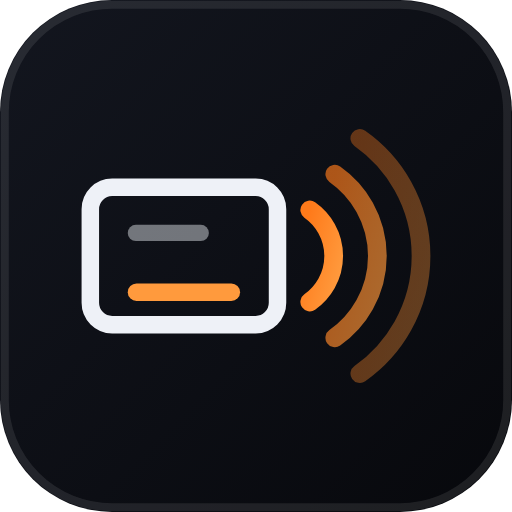
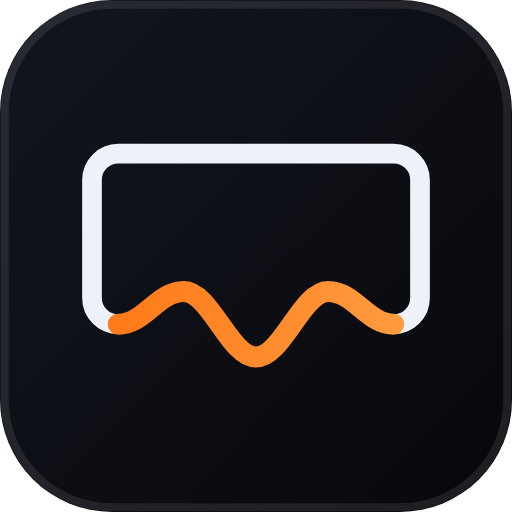
New mark: a slide that ends in a waveform
The frame stops at the bottom corners and the voice carries the edge
between them, so a single outline says both halves of the name instead of
drawing a screen and a speaker next to each other.

Replaces the mark, the tile, the lockup, the fifteen rasters and the inline
copy in the page header.

Changed region(s): [[0.1562, 0.25, 0.8438, 0.75], [0.25, 0.4375, 0.4062, 0.4688]]

diff --git a/ui.html b/ui.html
@@ -99,20 +99,14 @@
   <div class="brand">
     <svg class="mark" viewBox="0 0 64 64" fill="none" aria-hidden="true">
       <defs>
-        <linearGradient id="scWave" x1="0" y1="0" x2="1" y2="1">
+        <linearGradient id="scWave" x1="0" y1="0" x2="1" y2="0">
           <stop offset="0" stop-color="#ff7a1a"/><stop offset="1" stop-color="#ff9a3d"/>
         </linearGradient>
       </defs>
-      <rect x="5" y="21" width="30" height="22" rx="3.5"
-            stroke="currentColor" stroke-width="2.8"/>
-      <rect x="11" y="27" width="13" height="2.6" rx="1.3"
-            fill="currentColor" opacity="0.45"/>
-      <rect x="11" y="36.4" width="18" height="2.8" rx="1.4" fill="#ff9a3d"/>
-      <g stroke="url(#scWave)" stroke-width="3" stroke-linecap="round">
-        <path d="M 40.162 24.628 A 9 9 0 0 1 40.162 39.372"/>
-        <path d="M 44.177 18.894 A 16 16 0 0 1 44.177 45.106" opacity="0.66"/>
-        <path d="M 48.192 13.160 A 23 23 0 0 1 48.192 50.840" opacity="0.36"/>
-      </g>
+      <path d="M 11 45 A 4 4 0 0 1 7 41 L 7 23 A 4 4 0 0 1 11 19 L 53 19 A 4 4 0 0 1 57 23 L 57 41 A 4 4 0 0 1 53 45"
+            stroke="currentColor" stroke-width="3" stroke-linecap="round"/>
+      <path d="M 53 45 C 49 45 47 40 43 40 C 39 40 36 50 32 50 C 28 50 25 40 21 40 C 17 40 15 45 11 45"
+            stroke="url(#scWave)" stroke-width="3.2" stroke-linecap="round"/>
     </svg>
     <h1>Slide<span>Cast</span></h1>
   </div>

diff --git a/README.md b/README.md
@@ -250,9 +250,9 @@ still exits 0, so the path is made absolute and the result is checked.
 
 ## Logo
 
-The mark is a slide broadcasting: a 16:9 frame with a title line, an orange bar
-low inside it for the burned-in subtitle, and three waves coming off its edge
-that fade as they travel.
+The mark is a slide that ends in a waveform. The frame stops at the bottom
+corners and the voice carries the edge between them, so one outline says
+both halves of the name rather than drawing a screen and a speaker.
 
 | File | Use |
 |---|---|
